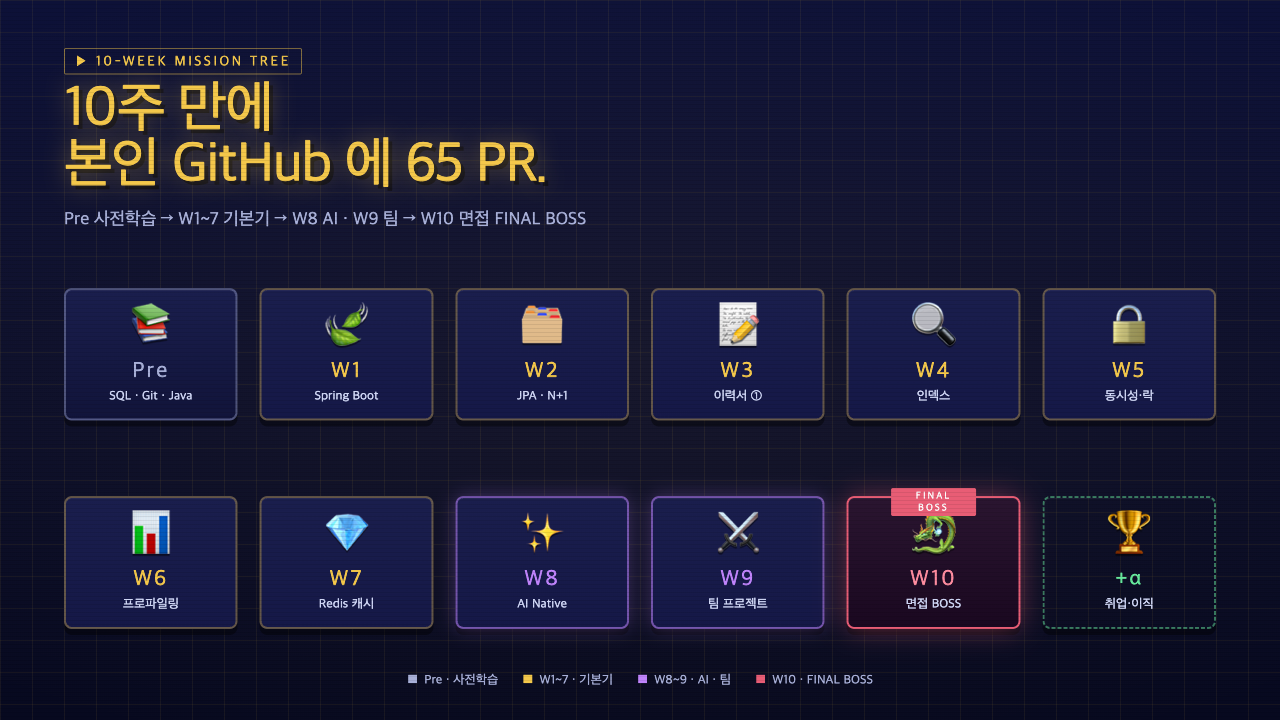
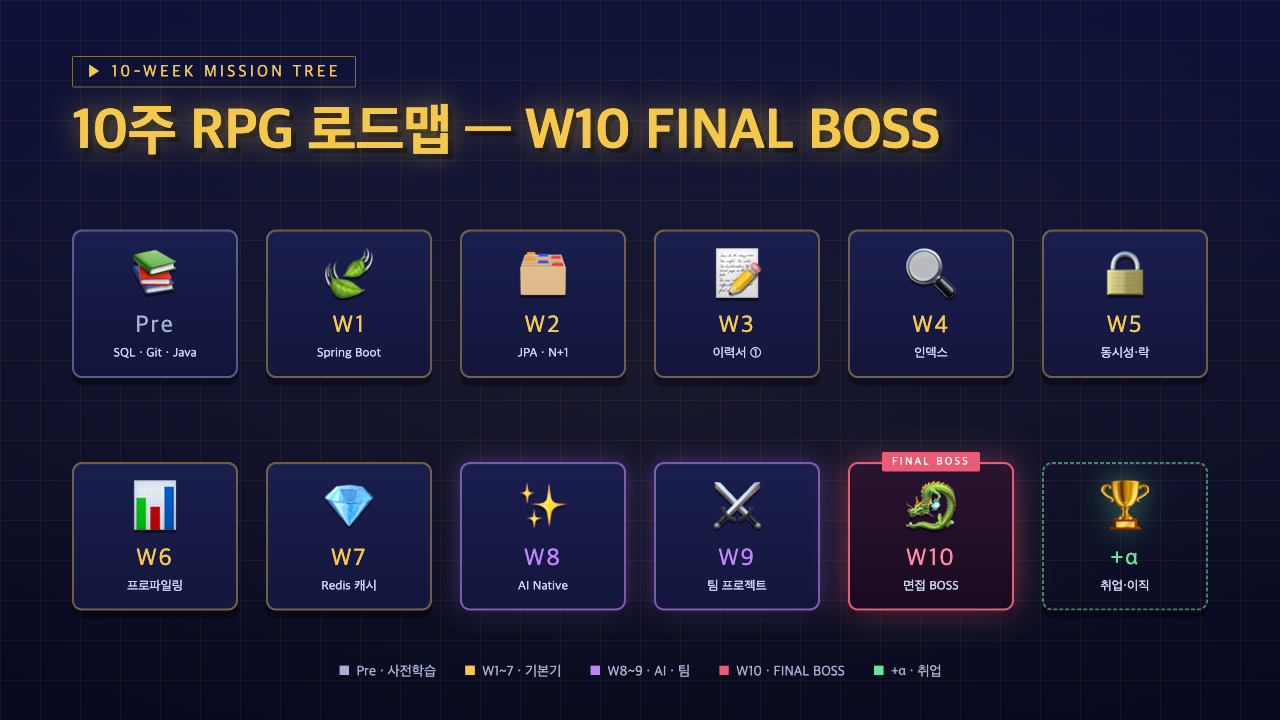
fix(marketing): use _backgroundImage directive for full-bleed visuals
이전: ![w:880](png) → 슬라이드 안에 작게 들어가서 _슬라이드 in 슬라이드_ 처럼 어색
변경: Marp _backgroundImage directive 로 PNG 가 _슬라이드 전체 배경_
        → PNG 가 슬라이드와 완벽히 묻음 (자체 디자인이 슬라이드 그 자체)

5장 자작 visual 슬라이드:
- #5 Roadmap        ← landing-roadmap.png
- #6 AI 정책         ← landing-policy.png
- #7 Outcomes       ← landing-outcomes.png
- #8 Before/After   ← landing-before-after.png
- #11 4인 1조        ← landing-team.png

부가 변경:
- outcomes 수치 SoT 정정 (65 → 10+ PR, 더 많은 정량화)
- roadmap.html outer framing 보존 (badge + h1) — bg 로 풀로 들어가도록

검증: dist/marketing/info-session-20260517.html?_=1#5 슬라이드 PNG 풀브리드 OK.
PDF 는 9개 이미지 + bg 로 timeout 발생 가능 — HTML 우선.

diff --git a/marketing/visuals/roadmap.html b/marketing/visuals/roadmap.html
@@ -3,7 +3,6 @@
 <head>
 <meta charset="utf-8">
 <title>10-Week RPG Map</title>
-<link href="https://cdn.jsdelivr.net/gh/projectnoonnu/noonfonts_2105_2@1.0/Galmuri11.woff2" rel="stylesheet">
 <style>
   @font-face {
     font-family: "Galmuri11";
@@ -12,9 +11,7 @@
   }
   * { margin: 0; padding: 0; box-sizing: border-box; }
   html, body {
-    width: 1280px;
-    height: 720px;
-    overflow: hidden;
+    width: 1280px; height: 720px; overflow: hidden;
     background:
       radial-gradient(ellipse 80% 60% at 50% 50%, rgba(244,200,75,0.06), transparent),
       linear-gradient(180deg, #0d1138 0%, #07091f 100%);
@@ -22,75 +19,72 @@
     font-family: "Galmuri11", "Pretendard Variable", sans-serif;
   }
   body::before {
-    content: "";
-    position: absolute; inset: 0;
+    content: ""; position: absolute; inset: 0;
     background-image:
-      linear-gradient(rgba(244,200,75,0.07) 1px, transparent 1px),
-      linear-gradient(90deg, rgba(244,200,75,0.07) 1px, transparent 1px);
-    background-size: 32px 32px;
-    pointer-events: none;
-  }
-  body::after {
-    content: "";
-    position: absolute; inset: 0;
-    background: repeating-linear-gradient(
-      0deg, transparent 0, transparent 3px,
-      rgba(0,0,0,0.08) 3px, rgba(0,0,0,0.08) 4px
-    );
+      linear-gradient(rgba(244,200,75,0.06) 1px, transparent 1px),
+      linear-gradient(90deg, rgba(244,200,75,0.06) 1px, transparent 1px);
+    background-size: 40px 40px;
     pointer-events: none;
   }
   .wrap {
-    position: relative;
-    width: 100%; height: 100%;
-    padding: 48px 64px 32px;
+    position: relative; width: 100%; height: 100%;
+    padding: 56px 72px 40px;
     display: flex; flex-direction: column;
   }
-  .head { display: flex; align-items: baseline; gap: 16px; margin-bottom: 8px; }
   .badge {
-    font-size: 14px; letter-spacing: 0.18em; color: #f4c84b;
+    display: inline-block;
+    font-size: 16px; letter-spacing: 0.2em; color: #f4c84b;
     border: 1px solid rgba(244,200,75,0.5);
-    padding: 4px 10px; border-radius: 2px;
+    padding: 5px 14px; border-radius: 2px;
+    align-self: flex-start;
   }
   h1 {
-    font-size: 56px; color: #f4c84b; font-weight: 400; line-height: 1.0;
-    text-shadow: 0 0 24px rgba(244,200,75,0.45), 4px 4px 0 rgba(0,0,0,0.5);
-    letter-spacing: -0.02em;
+    font-size: 56px; color: #f4c84b; line-height: 1.05;
+    margin-top: 16px;
+    text-shadow: 0 0 28px rgba(244,200,75,0.5), 5px 5px 0 rgba(0,0,0,0.55);
+    letter-spacing: -0.01em;
   }
-  .sub { color: #a8b0d8; font-size: 18px; margin-top: 14px; font-family: "Pretendard Variable", sans-serif; }
   .map {
     flex: 1;
-    margin-top: 28px;
+    margin-top: 36px;
     display: grid;
     grid-template-columns: repeat(6, 1fr);
     grid-template-rows: 1fr 1fr;
-    gap: 16px 22px;
+    gap: 22px 28px;
     align-items: center;
   }
   .node {
-    position: relative;
-    background: linear-gradient(180deg, #1a1e4d 0%, #151847 100%);
-    border: 2px solid rgba(244,200,75,0.35);
-    border-radius: 8px;
-    padding: 12px 14px 14px;
+    background: linear-gradient(180deg, #1a1e4d 0%, #14163d 100%);
+    border: 2px solid rgba(244,200,75,0.4);
+    border-radius: 10px;
+    padding: 16px 14px 14px;
     text-align: center;
     box-shadow:
       inset 0 1px 0 rgba(255,255,255,0.05),
-      0 6px 0 rgba(0,0,0,0.4);
+      0 8px 0 rgba(0,0,0,0.35);
+    position: relative;
   }
-  .node .icon { font-size: 44px; line-height: 1; display: block; margin: 4px 0 8px; filter: drop-shadow(0 2px 0 rgba(0,0,0,0.5)); }
-  .node .id   { font-size: 22px; color: #f4c84b; letter-spacing: 0.1em; }
-  .node .name { font-size: 13px; color: #cfd6f5; margin-top: 4px; line-height: 1.25; font-family: "Pretendard Variable", sans-serif; }
+  .node .icon {
+    font-size: 50px; line-height: 1; display: block;
+    margin: 4px 0 10px;
+    filter: drop-shadow(0 3px 0 rgba(0,0,0,0.5));
+  }
+  .node .id { font-size: 24px; color: #f4c84b; letter-spacing: 0.08em; }
+  .node .name {
+    font-size: 13px; color: #cfd6f5; margin-top: 5px; line-height: 1.3;
+    font-family: "Pretendard Variable", sans-serif;
+  }
   .node.pre {
-    border-color: rgba(168,176,216,0.4);
+    border-color: rgba(168,176,216,0.45);
     background: linear-gradient(180deg, #1a1e4d 0%, #11143a 100%);
   }
   .node.pre .id { color: #a8b0d8; }
   .node.magic {
-    border-color: rgba(192,132,252,0.55);
+    border-color: rgba(192,132,252,0.6);
     box-shadow:
       inset 0 1px 0 rgba(255,255,255,0.05),
-      0 0 18px rgba(192,132,252,0.25),
-      0 6px 0 rgba(0,0,0,0.4);
+      0 0 22px rgba(192,132,252,0.28),
+      0 8px 0 rgba(0,0,0,0.35);
   }
   .node.magic .id { color: #c084fc; }
   .node.boss {
@@ -98,20 +92,27 @@
     background: linear-gradient(180deg, #2a1530 0%, #1a0820 100%);
     box-shadow:
       inset 0 1px 0 rgba(255,255,255,0.05),
-      0 0 28px rgba(232,93,117,0.45),
-      0 6px 0 rgba(0,0,0,0.4);
+      0 0 32px rgba(232,93,117,0.5),
+      0 8px 0 rgba(0,0,0,0.35);
   }
   .node.boss .id { color: #ff8da0; }
-  .node.boss::after {
+  .node.boss::before {
     content: "FINAL BOSS";
-    position: absolute; top: -10px; left: 50%; transform: translateX(-50%);
-    font-size: 10px; letter-spacing: 0.2em;
+    position: absolute; top: -12px; left: 50%; transform: translateX(-50%);
+    font-size: 11px; letter-spacing: 0.2em;
     background: #e85d75; color: #fff;
-    padding: 2px 8px; border-radius: 2px;
+    padding: 3px 10px; border-radius: 2px;
+    white-space: nowrap;
   }
+  .node.bonus {
+    border: 2px dashed rgba(102,232,156,0.55);
+    background: transparent;
+  }
+  .node.bonus .id { color: #66e89c; }
+  .node.bonus .icon { filter: drop-shadow(0 0 14px rgba(102,232,156,0.5)); }
   .legend {
-    display: flex; gap: 24px; justify-content: center;
-    margin-top: 14px; font-size: 13px; color: #a8b0d8;
+    display: flex; gap: 28px; justify-content: center;
+    margin-top: 22px; font-size: 14px; color: #a8b0d8;
     font-family: "Pretendard Variable", sans-serif;
   }
   .legend span::before {
@@ -121,15 +122,13 @@
   .legend .l-base::before { color: #f4c84b; }
   .legend .l-mag::before  { color: #c084fc; }
   .legend .l-boss::before { color: #e85d75; }
+  .legend .l-bonus::before { color: #66e89c; }
 </style>
 </head>
 <body>
 <div class="wrap">
-  <div class="head">
-    <span class="badge">▶ 10-WEEK MISSION TREE</span>
-  </div>
-  <h1>10주 만에<br>본인 GitHub 에 65 PR.</h1>
-  <div class="sub">Pre 사전학습 → W1~7 기본기 → W8 AI · W9 팀 → W10 면접 FINAL BOSS</div>
+  <span class="badge">▶ 10-WEEK MISSION TREE</span>
+  <h1>10주 RPG 로드맵 — W10 FINAL BOSS</h1>
 
   <div class="map">
     <div class="node pre">
@@ -188,9 +187,9 @@
       <div class="id">W10</div>
       <div class="name">면접 BOSS</div>
     </div>
-    <div class="node" style="border-style:dashed; border-color:rgba(102,232,156,0.5); background:transparent;">
-      <span class="icon" style="color:#66e89c;">🏆</span>
-      <div class="id" style="color:#66e89c;">+α</div>
+    <div class="node bonus">
+      <span class="icon">🏆</span>
+      <div class="id">+α</div>
       <div class="name">취업·이직</div>
     </div>
   </div>
@@ -200,6 +199,7 @@
     <span class="l-base">W1~7 · 기본기</span>
     <span class="l-mag">W8~9 · AI · 팀</span>
     <span class="l-boss">W10 · FINAL BOSS</span>
+    <span class="l-bonus">+α · 취업</span>
   </div>
 </div>
 </body>

diff --git a/marketing/info-session-20260517.md b/marketing/info-session-20260517.md
@@ -66,35 +66,27 @@ description: 2026-05-17 (토) 설명회 발표 자료. 시장의 현실 / 우리
 
 ---
 
-<!-- _class: quest -->
-
-# 10-Week RPG Map 🗺
-
-![w:880](../theme/assets/marketing/landing-roadmap.png)
+<!-- _backgroundImage: url("../theme/assets/marketing/landing-roadmap.png") -->
+<!-- _backgroundSize: cover -->
+<!-- _backgroundColor: #0d1138 -->
 
 ---
 
-# AI 사용 정책 — 주차별 모드 🤖
-
-![w:880](../theme/assets/marketing/landing-policy.png)
-
-> _AI 도 못 다루면 도태_, _AI 만 믿으면 면접 탈락_. — 중간 길을 박는다.
+<!-- _backgroundImage: url("../theme/assets/marketing/landing-policy.png") -->
+<!-- _backgroundSize: cover -->
+<!-- _backgroundColor: #0d1138 -->
 
 ---
 
-# 산출물 — GitHub 누적
-
-![w:760](../theme/assets/marketing/landing-outcomes.png)
-
-> **수료증이 아닙니다.** 본인 GitHub 에 _PR 65개 · 정량 수치 · evidence_ 누적 — 채용 담당자가 링크 한 번으로 검토.
+<!-- _backgroundImage: url("../theme/assets/marketing/landing-outcomes.png") -->
+<!-- _backgroundSize: cover -->
+<!-- _backgroundColor: #0d1138 -->
 
 ---
 
-# 이력서 Before/After 📝
-
-![w:760](../theme/assets/marketing/landing-before-after.png)
-
-> 정산 처리 **−88%** · 오류율 0% · 1,400만 건 자동화. _인프런 강의 수강생 기준_.
+<!-- _backgroundImage: url("../theme/assets/marketing/landing-before-after.png") -->
+<!-- _backgroundSize: cover -->
+<!-- _backgroundColor: #0d1138 -->
 
 ---
 
@@ -114,11 +106,9 @@ description: 2026-05-17 (토) 설명회 발표 자료. 시장의 현실 / 우리
 
 ---
 
-# 4인 1조 — 라이프사이클 5단계 🤝
-
-![w:880](../theme/assets/marketing/landing-team.png)
-
-> 4명이 _기획 · 코딩 · 테스트 · 리뷰 · 배포_ 5단계 분담 + 교차 피어리뷰.
+<!-- _backgroundImage: url("../theme/assets/marketing/landing-team.png") -->
+<!-- _backgroundSize: cover -->
+<!-- _backgroundColor: #0d1138 -->
 
 ---
 
